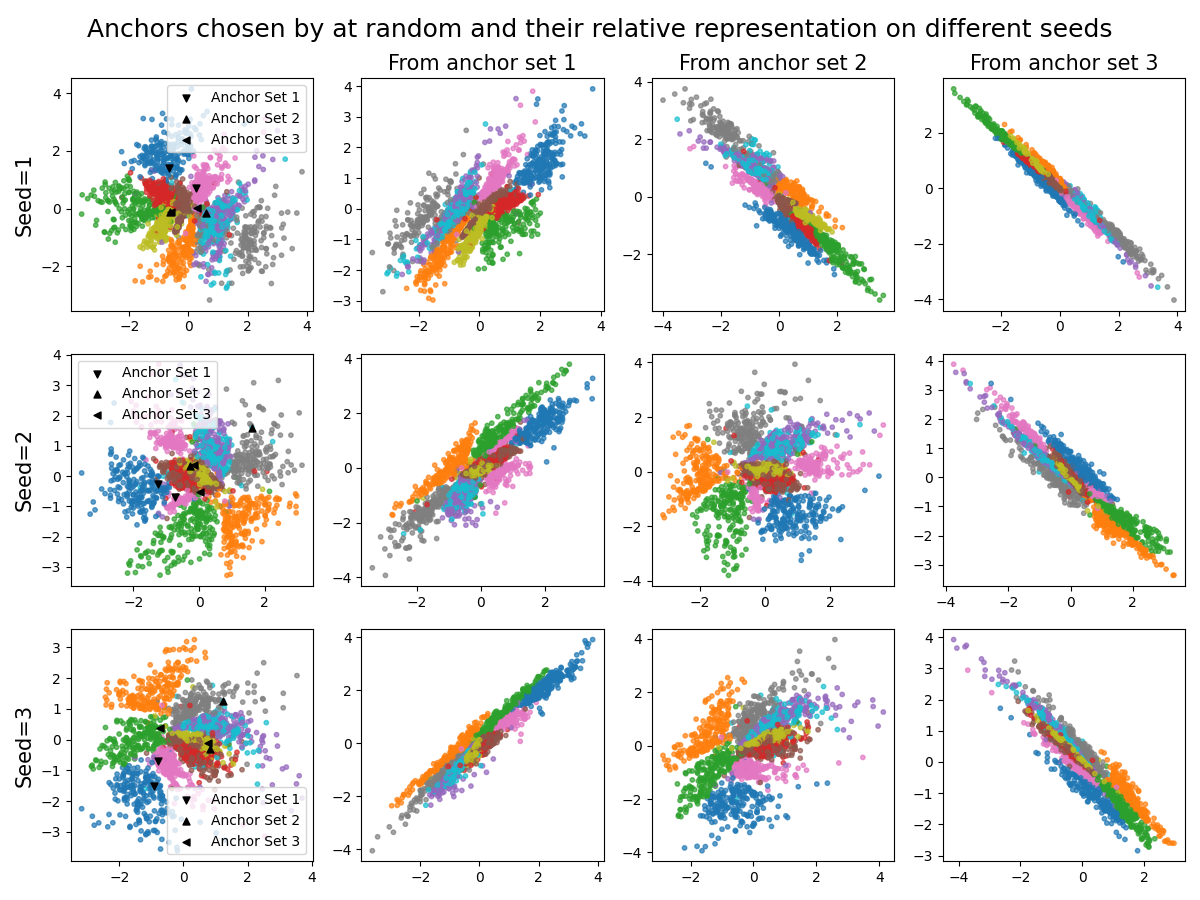
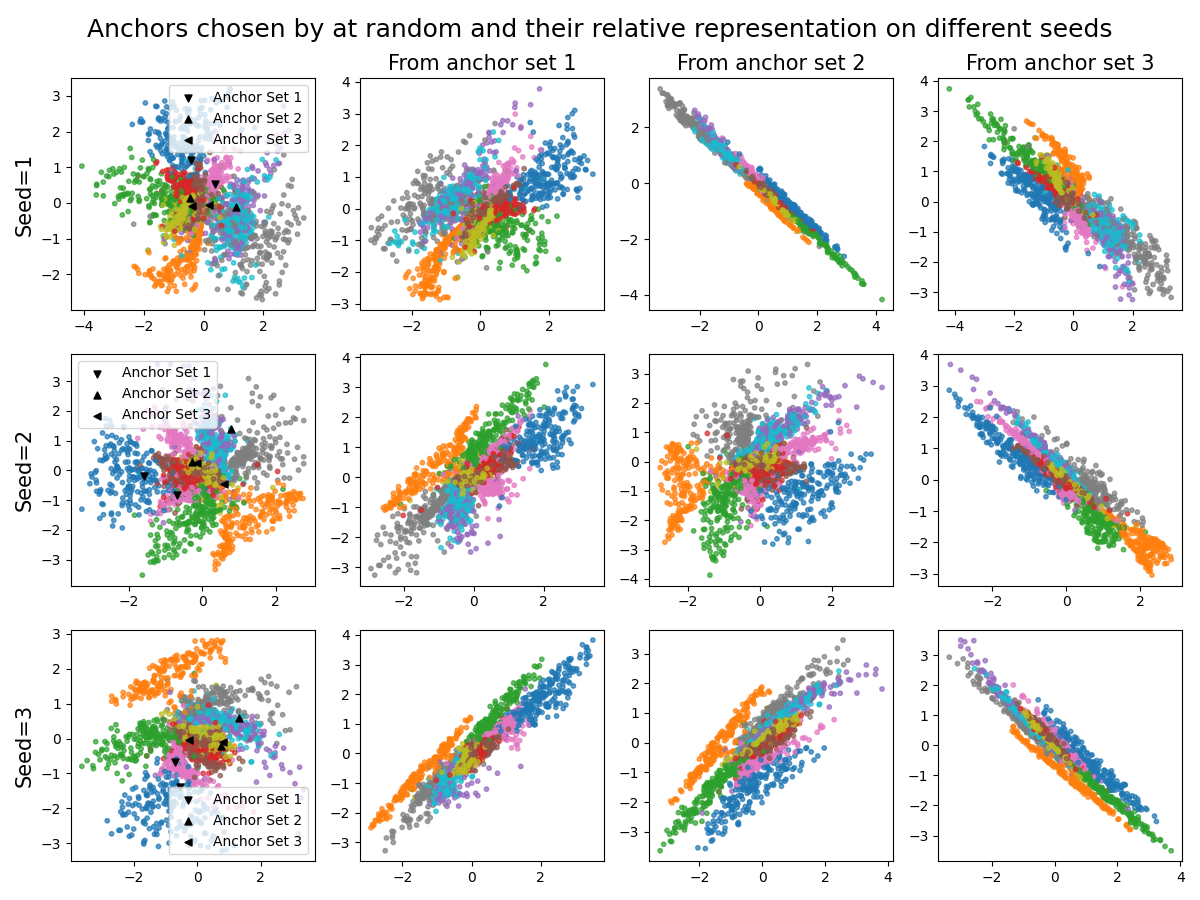
plotting functions implemented

diff --git a/2D_AE_relrep/plotting.py b/2D_AE_relrep/plotting.py
@@ -41,8 +41,8 @@ num_epochs = 10
 anchor_algo = "p" # can be "random", "greedy", "p"
 
 # Hyperparameters for anchor selection
-coverage_w = 10
-diversity_w = 1
+coverage_w = 1
+diversity_w = 10
 exponent = 1
 
 def get_relrep_grid(grid_size=3 ,anchor_algo=anchor_algo, num_epochs=num_epochs, train_loader=train_loader, test_loader=test_loader, device="cuda", use_small=True, relrep_dist="euclidean"):
@@ -64,7 +64,7 @@ def get_relrep_grid(grid_size=3 ,anchor_algo=anchor_algo, num_epochs=num_epochs,
             hidden_layer=None,
             nr_runs=1,
             save=False,
-            verbose=True,
+            verbose=False,
             train_loader=train_loader,
             test_loader=test_loader
         )
@@ -84,19 +84,6 @@ def get_relrep_grid(grid_size=3 ,anchor_algo=anchor_algo, num_epochs=num_epochs,
         # finding anchors depending on the chosen method
         if anchor_algo == "random":
             anchor_ids.append(random.sample(list(indices[0]), 2))
-        elif anchor_algo == "p":
-            anchor_selector, _ = get_optimized_anchors(
-                emb=[abs[-1]],
-                anchor_num=anchor_num,
-                epochs=50,
-                lr=1e-1,
-                coverage_weight=coverage_w,
-                diversity_weight=diversity_w,
-                exponent=exponent,
-                verbose=False,
-                device=device
-            )
-            anchor_selectors.append(anchor_selector)
 
     if anchor_algo == "greedy":
         for i in tqdm(range(nr_runs), desc="choosing anchors"):
@@ -104,6 +91,18 @@ def get_relrep_grid(grid_size=3 ,anchor_algo=anchor_algo, num_epochs=num_epochs,
             anchor_ids.append(greedy_one_at_a_time_single_euclidean(abs, indices_list,
                                                                     num_anchors=anchor_num, repetitions=repetitions,
                                                                     diversity_weight=diversity_w, Coverage_weight=coverage_w, verbose=False))
+    elif anchor_algo == "p":
+        selector, _ = get_optimized_anchors(
+            emb=abs, 
+            anchor_num=anchor_num,
+            epochs=200,
+            lr=1e-1,
+            coverage_weight=coverage_w,
+            diversity_weight=diversity_w,
+            exponent=exponent,
+            verbose=False,
+            device=device
+        )
         
     embeddings_list = [np.array(random.sample(embeddings.tolist(), 1000)) for embeddings in embeddings_list]
     anchors = []
@@ -118,18 +117,13 @@ def get_relrep_grid(grid_size=3 ,anchor_algo=anchor_algo, num_epochs=num_epochs,
     else:
         for embedding in tqdm(abs, desc="getting anchors"):
             row = []
-            for selector in anchor_selectors:
-                X = torch.from_numpy(embedding).to(device)
-                temp_anchor = selector(torch.tensor(X))
-                row.append(temp_anchor.cpu().detach().numpy())
+            X = torch.from_numpy(embedding).to(device)
+            temp_anchor = selector(torch.tensor(X))
+            row.append(temp_anchor.cpu().detach().numpy())
 
-            anchors.append(row)
+        anchors.append(row)
 
 
-    # print(anchor_ids)
-
-    # print(anchors)
-    # quit()
     rel_reps = []
     for embeddings, anchors_row in tqdm(zip(abs, anchors), desc="computing rel reps"):
         if relrep_dist == "euclidean":
@@ -216,4 +210,5 @@ anchor_algo="random"
 # rel_reps, abs, labels_list, anchors = get_relrep_grid(grid_size=3 ,anchor_algo=anchor_algo, num_epochs=num_epochs, train_loader=train_loader, test_loader=test_loader, device=device, relrep_dist="cossim")
 # plot_grid(rel_reps, abs, labels_list, anchors, anchor_algo, show=False, save=True)
 rel_reps, abs, labels_list, anchors = get_relrep_grid(grid_size=3 ,anchor_algo=anchor_algo, num_epochs=num_epochs, train_loader=train_loader, test_loader=test_loader, device=device, relrep_dist="cossim_non_norm")
-plot_grid(rel_reps, abs, labels_list, anchors, anchor_algo, show=False, save=True)
+plot_grid(rel_reps, abs, labels_list, anchors, anchor_algo, show=True, save=False)
+

diff --git a/anchors/P_anchors.py b/anchors/P_anchors.py
@@ -20,7 +20,7 @@ class AnchorSelector(nn.Module):
         T = 0.05
         P = F.softmax(self.Q / T, dim=1)
         anchors = P @ X  # [N_anchors, D]
-        return anchors, P
+        return anchors
 
 # NOTE: Eucl
 # def diversity_loss(anchors, exponent=0.5, scale=1.0/np.sqrt(2)):
@@ -59,7 +59,7 @@ def coverage_loss(anchors, embeddings):
 
 def anti_collapse_loss(anchors):
     # return torch.mean(torch.abs(1 - torch.norm(anchors, dim=1)))
-    return torch.mean(torch.relu(1 - torch.norm(anchors, dim=1)))
+    return torch.mean(torch.relu(3 - torch.norm(anchors, dim=1)))
 
 
 def optimize_anchors(anchor_selector, embeddings, epochs=100, lr=1e-3, coverage_weight=1.0, diversity_weight=1.0, anti_collapse_w=1.0, exp=1, verbose=True):
@@ -81,11 +81,13 @@ def optimize_anchors(anchor_selector, embeddings, epochs=100, lr=1e-3, coverage_
     """
     optimizer = torch.optim.Adam(anchor_selector.parameters(), lr=lr)
     for epoch in range(epochs):
-        anchors = anchor_selector(embeddings)
-        loss_cov = coverage_loss(anchors, embeddings)
-        loss_div = diversity_loss(anchors, exponent=exp)
-        loss = diversity_weight * loss_div + coverage_weight * loss_cov + anti_collapse_w * anti_collapse_loss(anchors)
-        optimizer.zero_grad()
+        loss = 0
+        for embedding in embeddings:
+            anchors = anchor_selector(embedding)
+            loss_cov = coverage_loss(anchors, embedding)
+            loss_div = diversity_loss(anchors, exponent=exp)
+            loss += (diversity_weight * loss_div + coverage_weight * loss_cov + anti_collapse_w * anti_collapse_loss(anchors))**2
+            optimizer.zero_grad()
         loss.backward()
         optimizer.step()
         if verbose and epoch % 10 == 0:
@@ -105,9 +107,9 @@ def get_optimized_anchors(emb, anchor_num, epochs=50, lr=1e-1,
     if verbose:
       print("Optimizing P anchors...")
     # Optimize on the first run's embeddings
-    X_first = emb[0]
+    X_first = np.array(emb)
     X_first_tensor = torch.from_numpy(X_first).to(device)
-    anchor_selector = AnchorSelector(N=X_first_tensor.shape[0], N_anchors=anchor_num).to(device)
+    anchor_selector = AnchorSelector(N=X_first_tensor.shape[1], N_anchors=anchor_num).to(device)
     optimize_anchors(anchor_selector, X_first_tensor, epochs=epochs, lr=lr,
                      coverage_weight=coverage_weight, diversity_weight=diversity_weight, anti_collapse_w=anti_collapse_w,
                      exp=exponent, verbose=verbose)

diff --git a/visualization/zero_shot_diffrent_seeds.py b/visualization/zero_shot_diffrent_seeds.py
@@ -17,7 +17,7 @@ from relreps import *
 from zero_shot import *
 
 # For reproducibility and consistency across runs, we set a seed
-set_random_seeds(43)
+set_random_seeds(42)
 
 device = torch.device("cuda" if torch.cuda.is_available() else "cpu")
 print(f"Using device: {device}: {torch.cuda.get_device_name(0)}")
